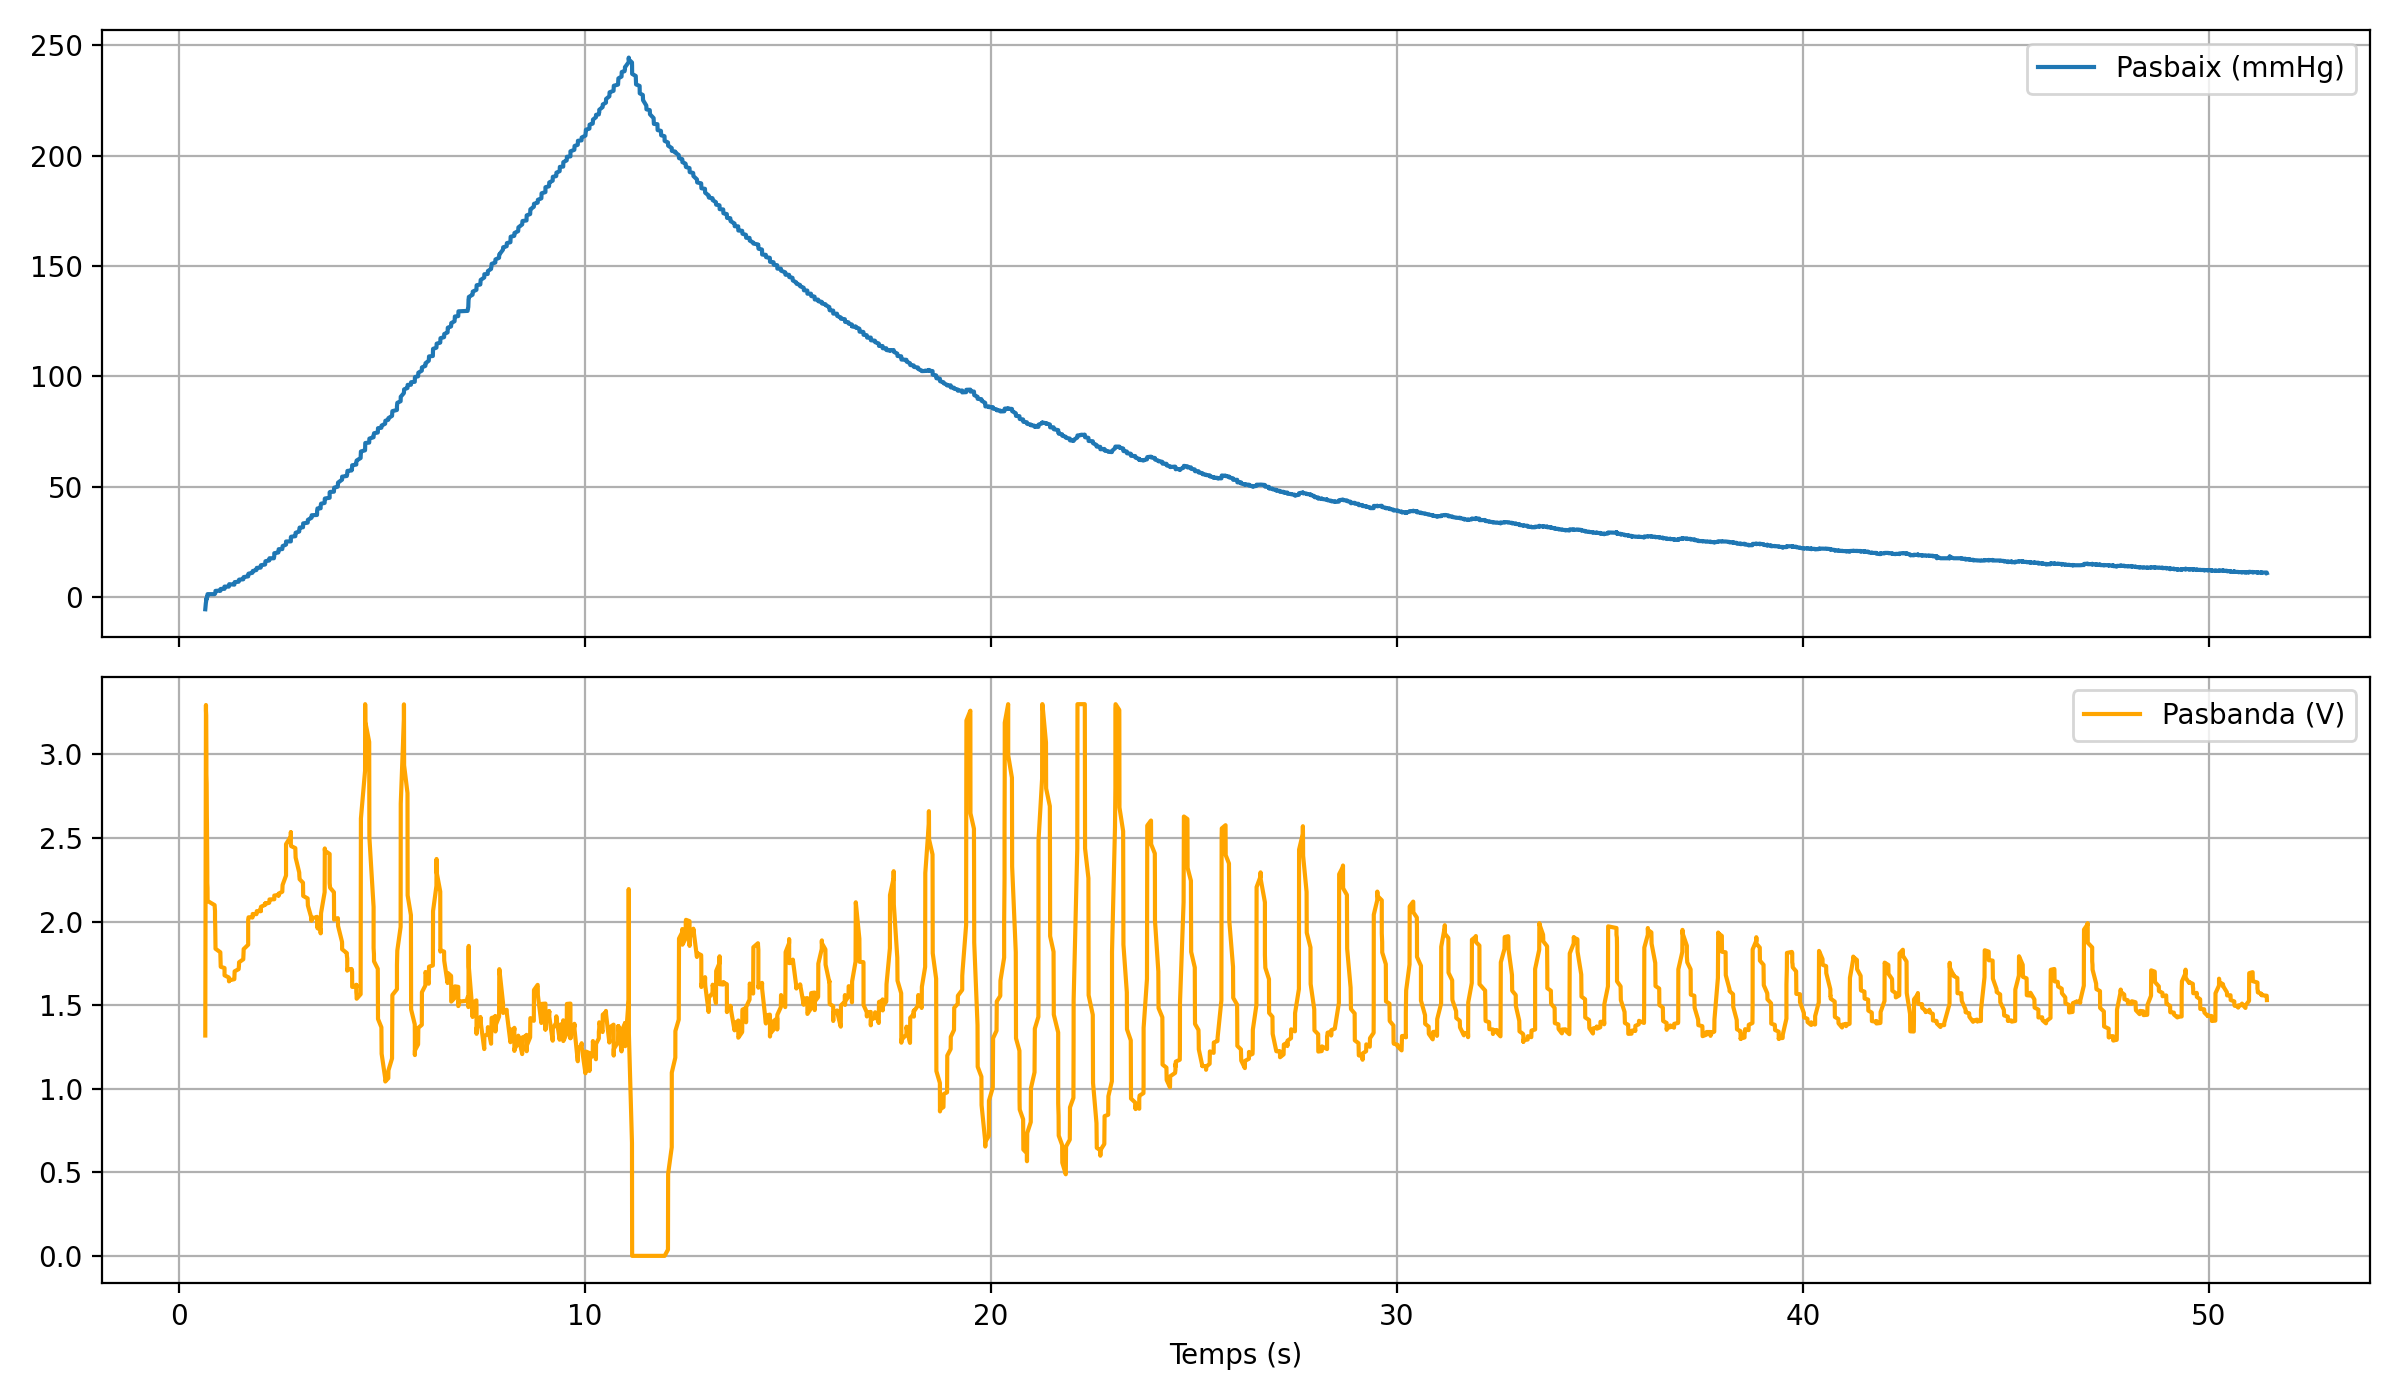
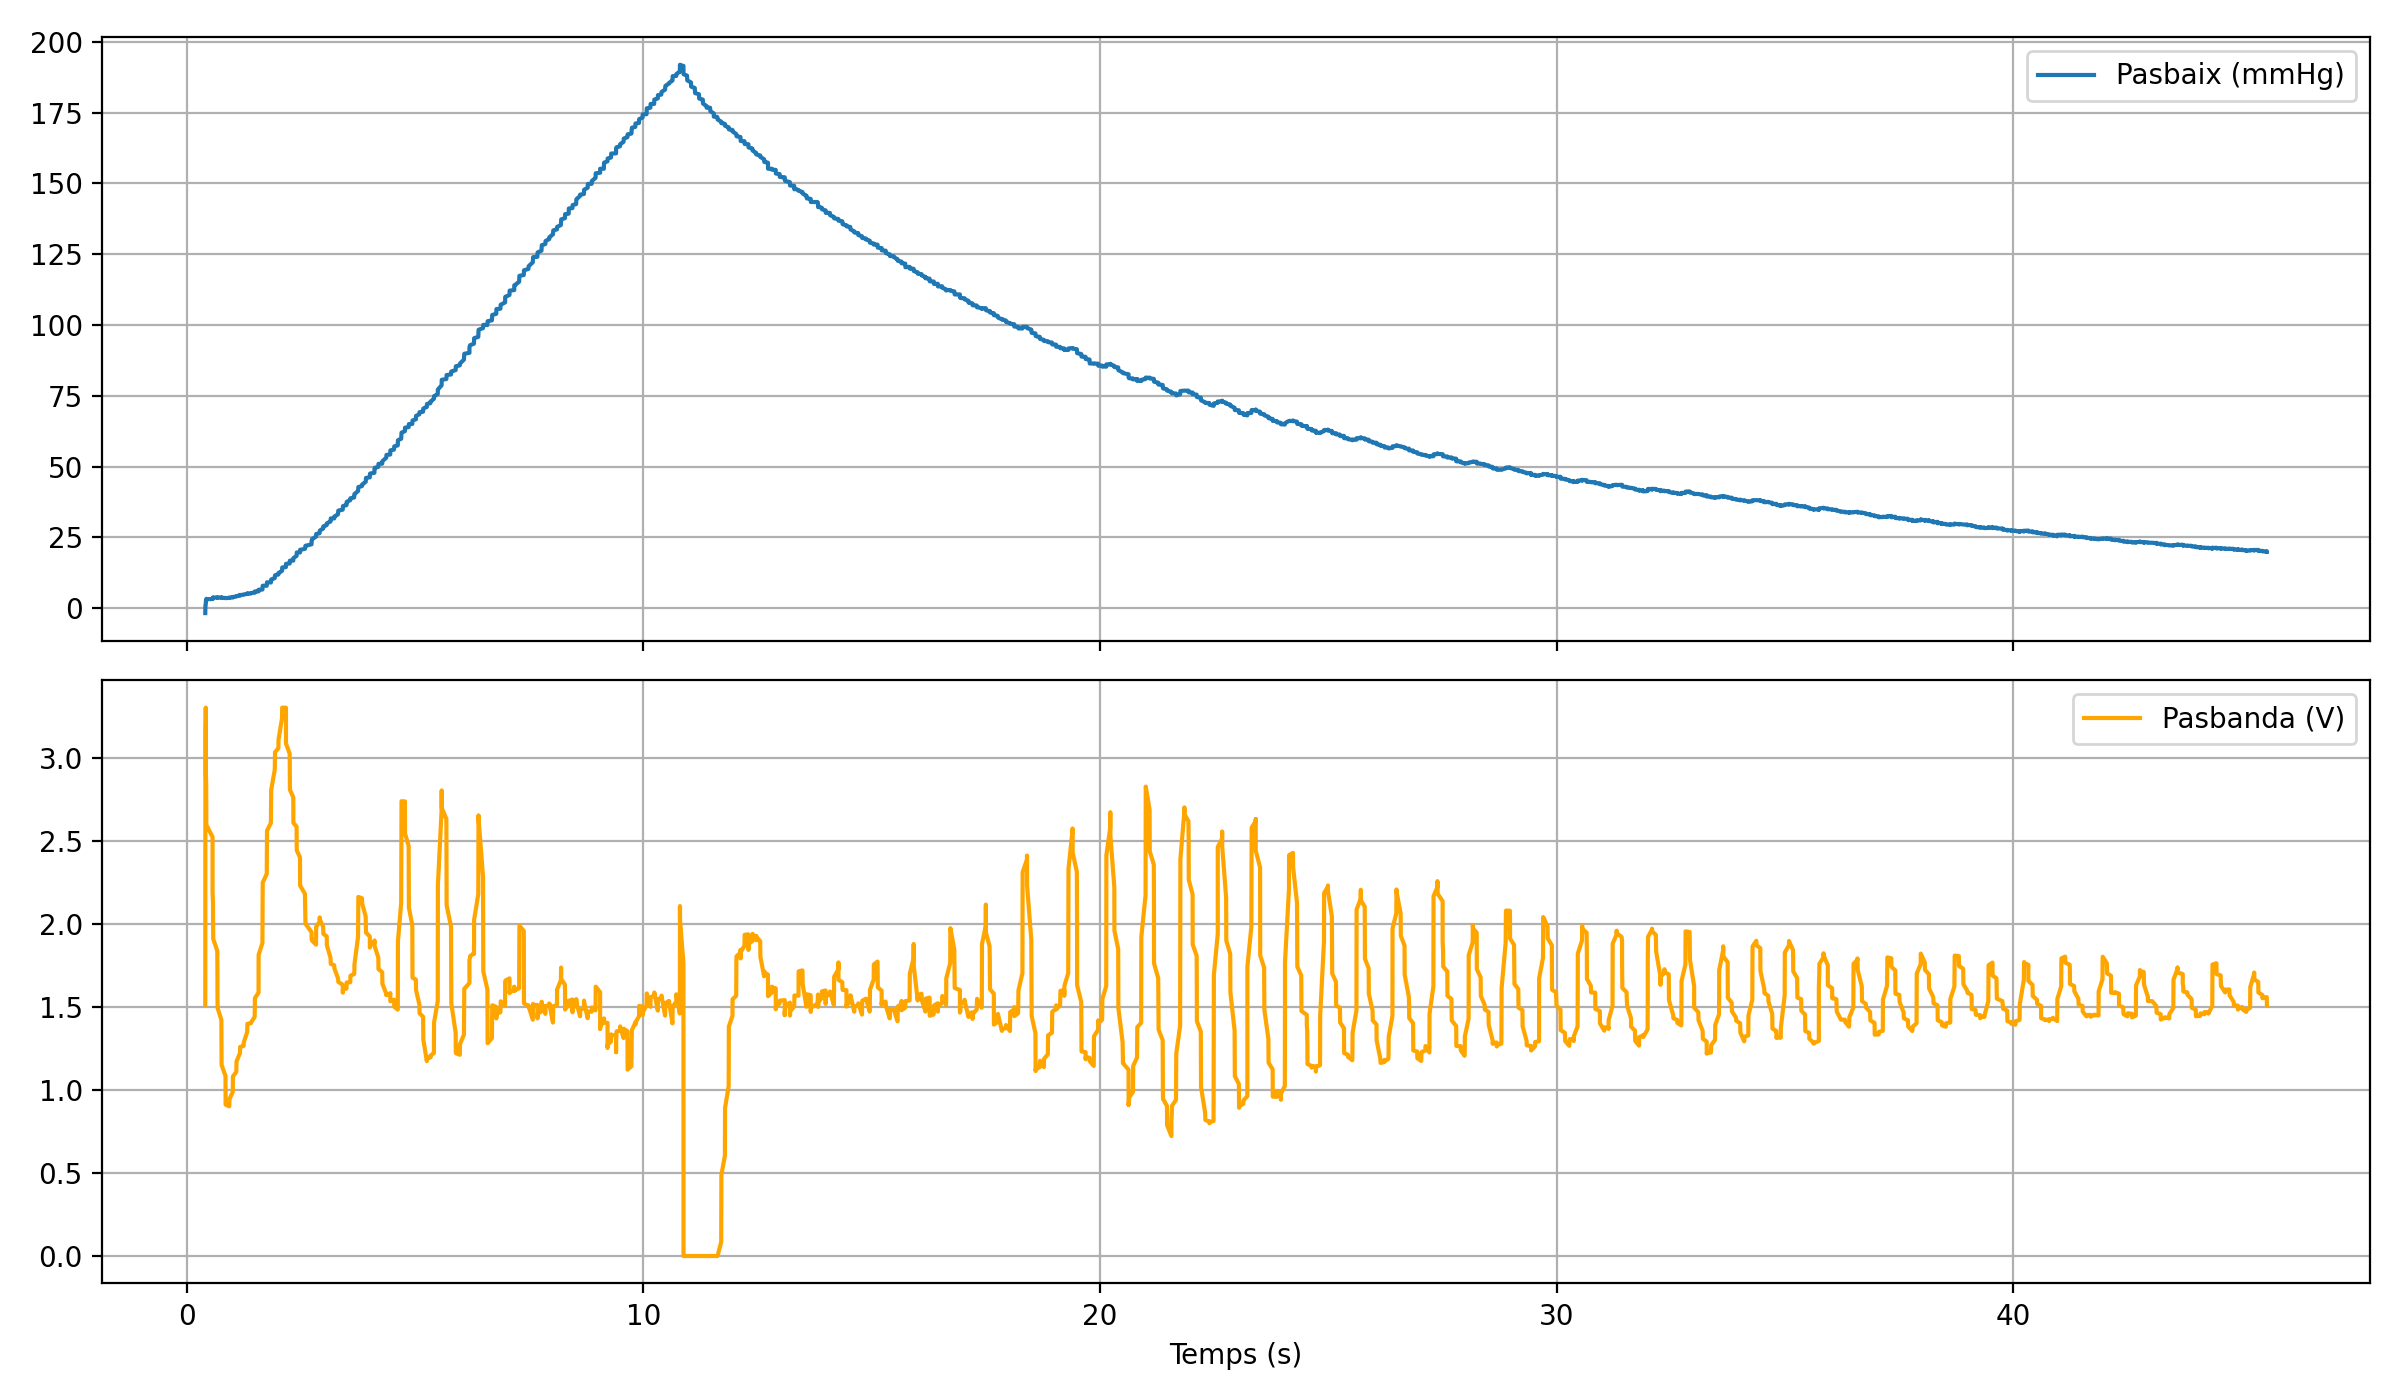
Modificacions percentatges sist i diast

diff --git a/src/pyfinal.py b/src/pyfinal.py
@@ -171,8 +171,8 @@ def on_close(_event):
             map_amp = amplituds[idx_map]
             map_pressio = pressions[idx_map]
 
-            target_sys = 0.42 * map_amp
-            target_dia = 0.82 * map_amp
+            target_sys = 0.47 * map_amp
+            target_dia = 0.72 * map_amp
 
             # Rang fisiològic segons MAP per evitar falsos pics inicials
             rang_sys_min = map_pressio + 10